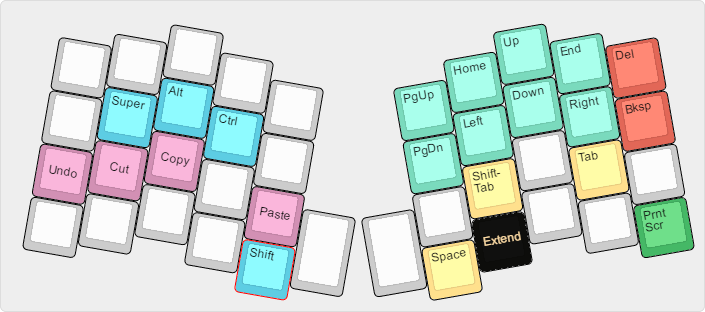
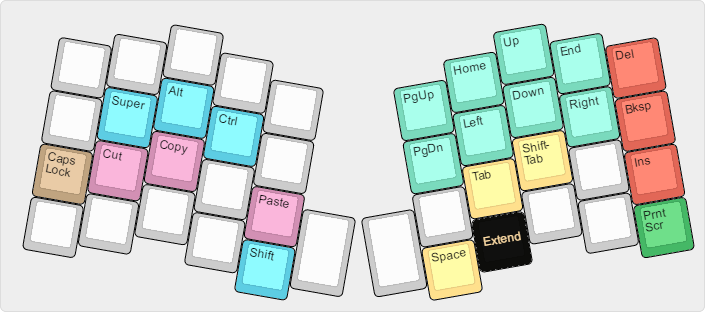
Minor changes to Extend and Number layers.
Brought QWERTY layer in line with normal layer. Removed Undo function, as it interfered with Shift. Moved Tab and Shift-Tab, and added Insert.

diff --git a/keyboards/atreus/keymaps/replicaJunction/keymap.c b/keyboards/atreus/keymaps/replicaJunction/keymap.c
@@ -49,28 +49,28 @@ const uint16_t PROGMEM keymaps[][MATRIX_ROWS][MATRIX_COLS] = {
   KC_Q,        KC_W,    KC_F,    KC_P,    KC_B,                                   KC_J,            KC_L,    KC_U,    KC_Y,    KC_SCLN,
   KC_A,        KC_R,    KC_S,    KC_T,    KC_G,                                   KC_M,            KC_N,    KC_E,    KC_I,    KC_O,
   SFT_T(KC_Z), KC_X,    KC_C,    KC_D,    KC_V,                                   KC_K,            KC_H,    KC_COMM, KC_DOT,  SFT_T(KC_SLSH),
-  KC_ESC,      KC_TAB,  KC_LGUI, KC_LSFT, KC_BSPC, CTL_T(KC_DEL), ALT_T(KC_ENT),  LT(_NU, KC_SPC), MO(_EX), KC_MINS, KC_QUOT, KC_EQL
+  KC_ESC,      KC_TAB,  KC_LGUI, KC_LALT, KC_BSPC, CTL_T(KC_DEL), ALT_T(KC_ENT),  LT(_NU, KC_SPC), MO(_EX), KC_MINS, KC_QUOT, KC_EQL
 ),
 
 [_QW] = KEYMAP( /* Qwerty */
-  KC_Q,        KC_W,    KC_E,    KC_R,    KC_T,                                    KC_Y,            KC_U,    KC_I,    KC_O,    KC_P,
-  KC_A,        KC_S,    KC_D,    KC_F,    KC_G,                                    KC_H,            KC_J,    KC_K,    KC_L,    KC_SCLN,
-  SFT_T(KC_Z), KC_X,    KC_C,    KC_V,    KC_B,                                    KC_N,            KC_M,    KC_COMM, KC_DOT,  SFT_T(KC_SLSH),
-  KC_ESC,      KC_TAB,  KC_LGUI, KC_LSFT, KC_BSPC, CTL_T(KC_BSPC), ALT_T(KC_ENT),  LT(_NU, KC_SPC), MO(_NU), TG(_GA), KC_QUOT, KC_EQL
+  KC_Q,        KC_W,    KC_E,    KC_R,    KC_T,                                  KC_Y,            KC_U,    KC_I,    KC_O,    KC_P,
+  KC_A,        KC_S,    KC_D,    KC_F,    KC_G,                                  KC_H,            KC_J,    KC_K,    KC_L,    KC_SCLN,
+  SFT_T(KC_Z), KC_X,    KC_C,    KC_V,    KC_B,                                  KC_N,            KC_M,    KC_COMM, KC_DOT,  SFT_T(KC_SLSH),
+  KC_ESC,      KC_TAB,  KC_LGUI, KC_LALT, KC_BSPC, CTL_T(KC_DEL), ALT_T(KC_ENT), LT(_NU, KC_SPC), MO(_EX), KC_MINS, KC_QUOT, KC_EQL
 ),
 
 [_EX] = KEYMAP( /* Extend */
   _______, _______, _______, _______, _______,                   KC_PGUP, KC_HOME, KC_UP,   KC_END,  KC_DEL,
   _______, KC_LGUI, KC_LALT, KC_LCTL, _______,                   KC_PGDN, KC_LEFT, KC_DOWN, KC_RGHT, KC_BSPC,
-  KX_UNDO, KX_CUT,  KX_COPY, _______, KX_PAST,                   _______, KCX_LST, _______, KC_TAB,  _______,
+  KC_CAPS, KX_CUT,  KX_COPY, _______, KX_PAST,                   _______, KC_TAB,  KCX_LST, _______, KC_INSERT,
   _______, _______, _______, _______, KC_LSFT, _______, _______, KC_SPC,  _______, _______, _______, KC_PSCR
 ),
 
 [_NU] = KEYMAP( /* Numbers and symbols */
   KC_EXLM, KC_AT,   KC_LCBR, KC_RCBR, KC_AMPR,                    KC_SLSH, KC_7,    KC_8,   KC_9,   KC_ASTR,
-  KC_HASH, KC_DLR,  KC_LPRN, KC_RPRN, KC_GRV,                     KC_PIPE, KC_4,    KC_5,   KC_6,   KC_MINS,
-  KC_PERC, KC_CIRC, KC_LBRC, KC_RBRC, KC_TILD,                    KC_BSLS, KC_1,    KC_2,   KC_3,   KC_PLUS,
-  MO(_FN), _______, KC_LABK, KC_RABK, _______, _______,  _______, _______, KC_0,    KC_DOT, KC_EQL, _______
+  KC_HASH, KC_DLR,  KC_LPRN, KC_RPRN, KC_TILD,                    KC_PIPE, KC_4,    KC_5,   KC_6,   KC_MINS,
+  KC_PERC, KC_CIRC, KC_LBRC, KC_RBRC, KC_GRV,                     KC_BSLS, KC_1,    KC_2,   KC_3,   KC_PLUS,
+  TG(_GA), _______, _______, MO(_FN), _______, _______,  _______, _______, KC_0,    KC_DOT, KC_EQL, _______
 ),
 
 [_FN] = KEYMAP( /* Functions */
@@ -83,7 +83,7 @@ const uint16_t PROGMEM keymaps[][MATRIX_ROWS][MATRIX_COLS] = {
 [_GA] = KEYMAP( /* Gaming */
   _______, _______, _______, _______, _______,                   _______, KC_WH_U, KC_MS_U, KC_WH_D, _______,
   _______, _______, _______, _______, _______,                   _______, KC_MS_L, KC_MS_D, KC_MS_R, _______,
-  _______, _______, _______, _______, _______,                   KC_BTN3, _______, KC_MS_D, _______, _______,
+  KC_Z,    _______, _______, _______, _______,                   KC_BTN3, _______, KC_MS_D, _______, _______,
   _______, _______, _______, KC_LSFT, KC_SPC,  KC_BSPC, KC_BTN2, KC_BTN1, _______, _______, _______, _______
 )};
 
